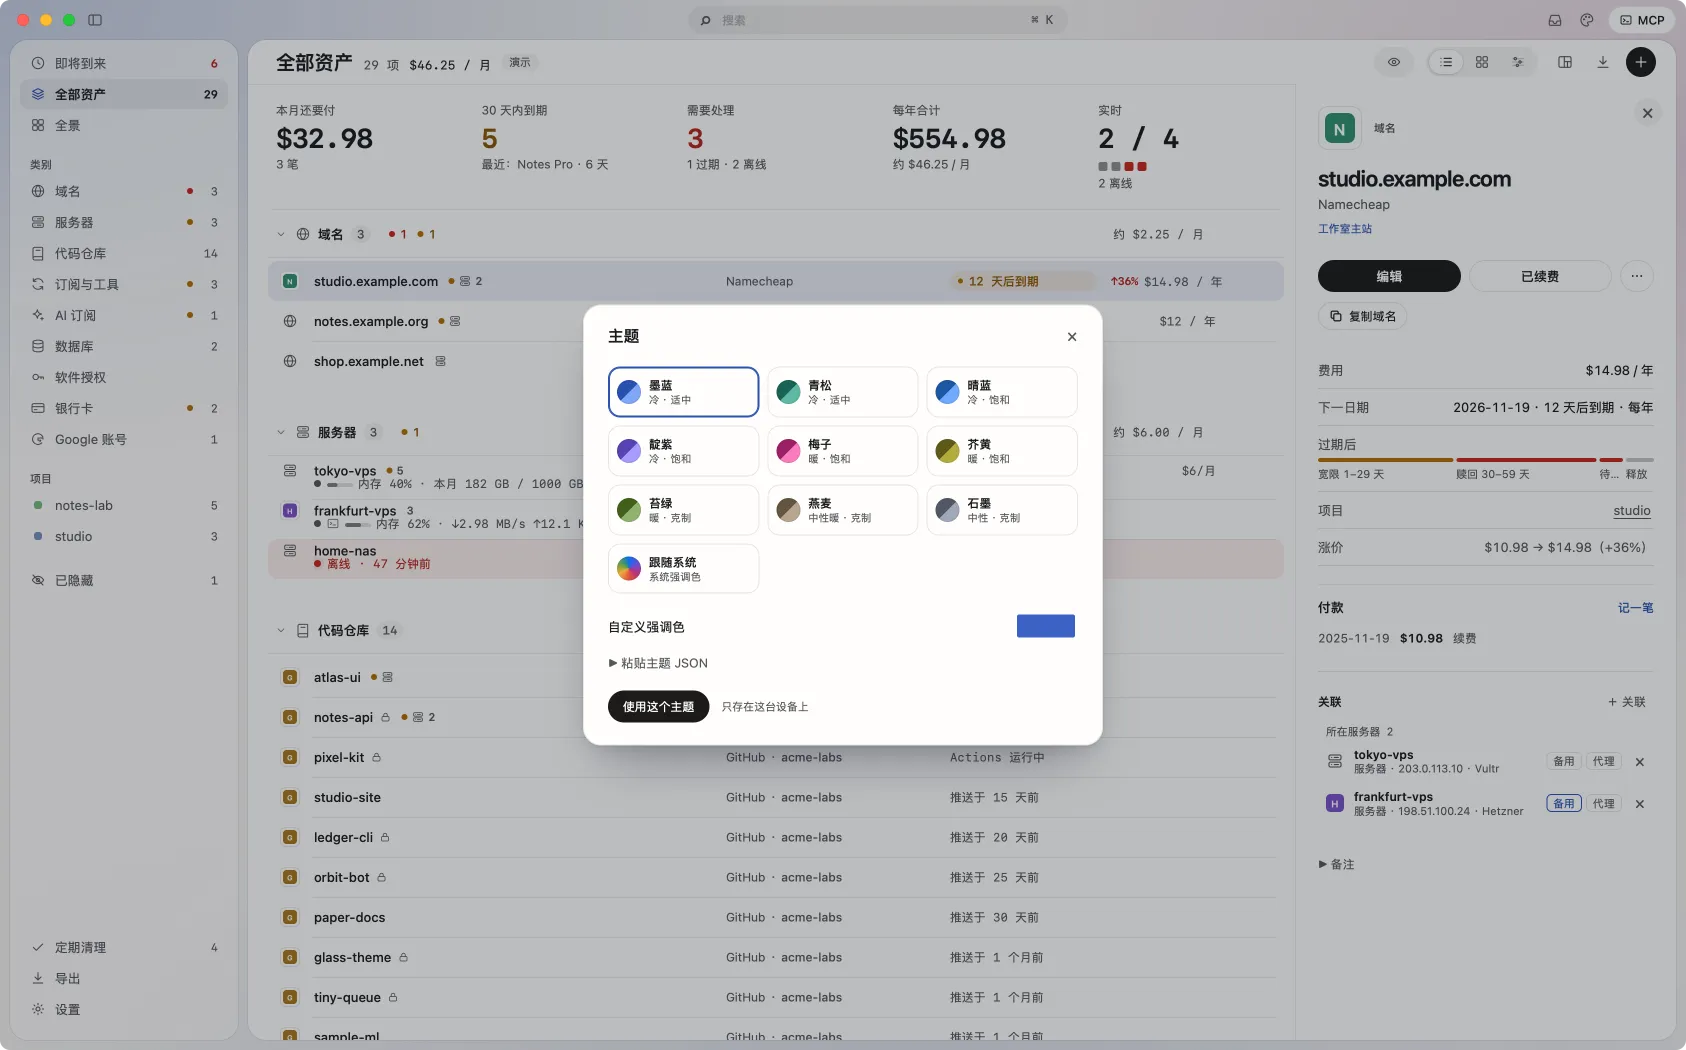
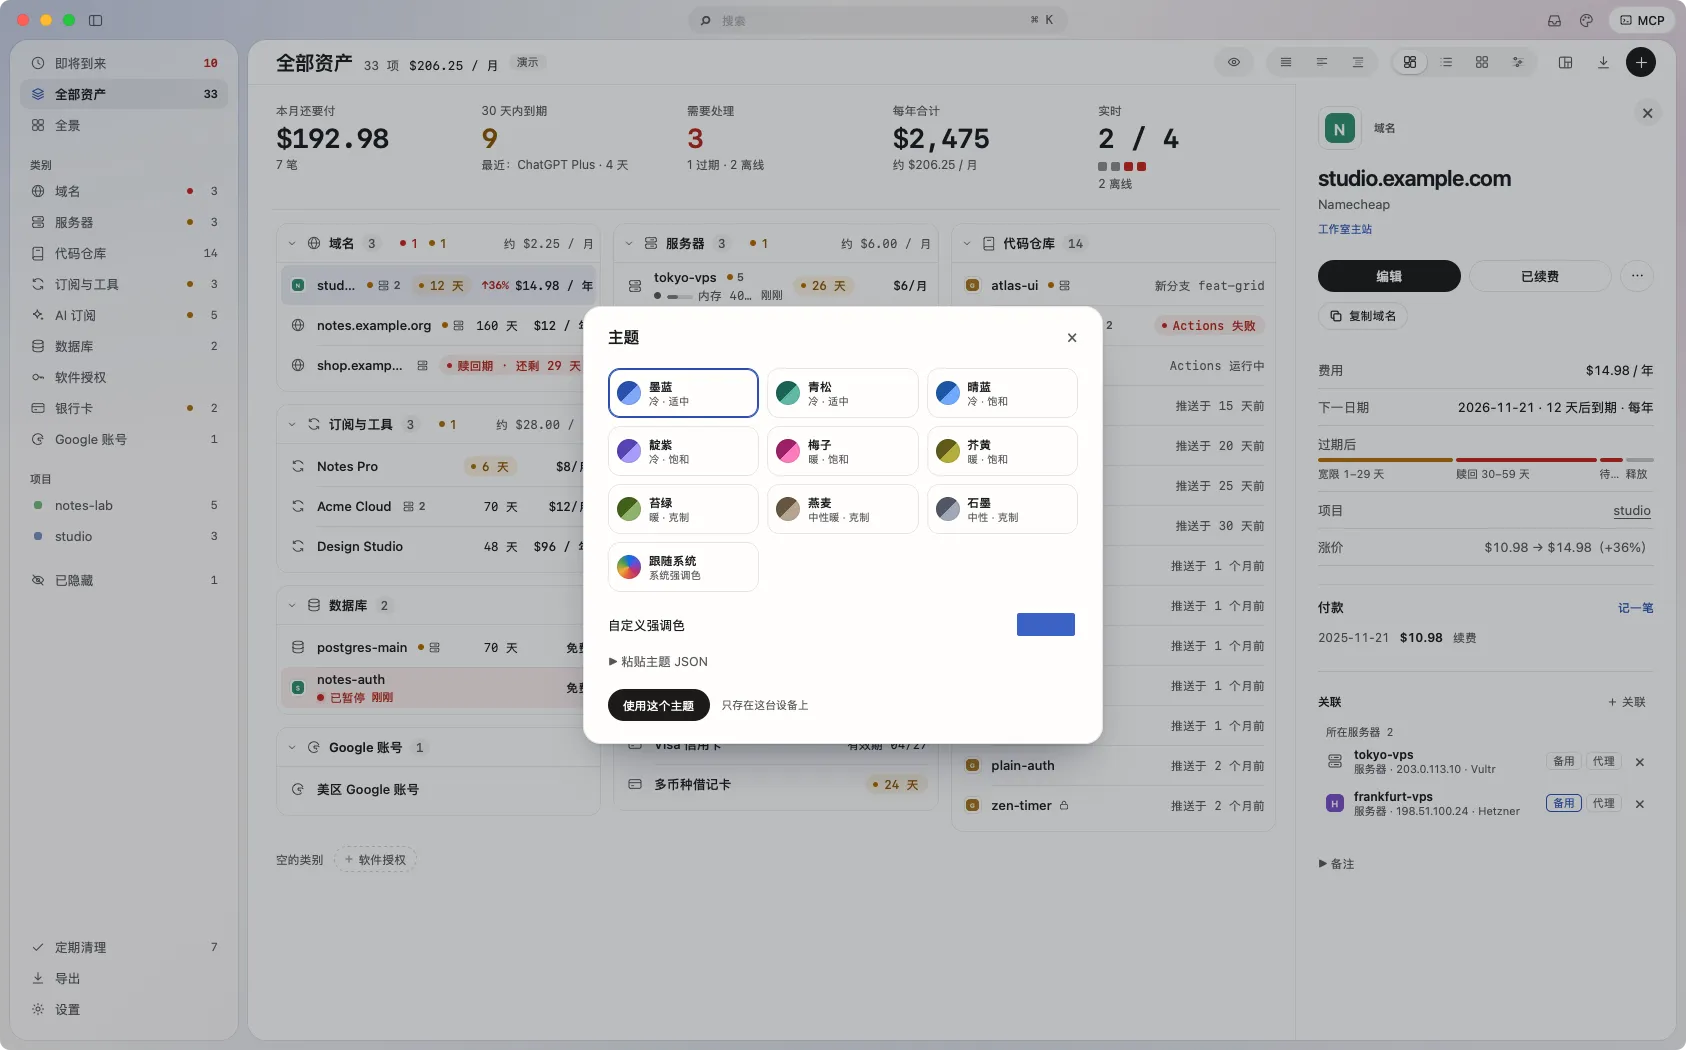
README screenshots: the site's demo shots from 44a346e (tile wall with live readings, Actions state and AI usage), and the main shot's alt text says so

diff --git a/README.en.md b/README.en.md
@@ -15,7 +15,7 @@ A macOS app that records the expiry dates, costs and relations of digital assets
 
 </div>
 
-![The All assets view: due this month, expiring within 30 days, needs attention, yearly total and live status on top, domains, servers and repositories grouped by category below, and one domain's details at the right](screenshots/board-en.webp)
+![The All assets view: due this month, expiring within 30 days, needs attention, yearly total and live status on top, a tile wall below with one panel per category (domains, servers with live readings, repositories with their Actions state, subscriptions, AI plans with their usage, databases, bank cards), and one domain's details at the right](screenshots/board-en.webp)
 
 <sub>Screenshots are from demo mode; the data is fictional.</sub>
 

diff --git a/README.md b/README.md
@@ -15,7 +15,7 @@
 
 </div>
 
-![全部资产视图：上方是本月待付、30 天内到期、需要处理、每年合计和实时状态，下面按类别分组列出域名、服务器和代码仓库，右边是一条域名记录的详情](screenshots/board-zh.webp)
+![全部资产视图：上方是本月待付、30 天内到期、需要处理、每年合计和实时状态，下面是磁贴墙，每个类别一块面板（域名、带实时读数的服务器、带 Actions 状态的代码仓库、订阅、带用量的 AI 订阅、数据库、银行卡），右边是一条域名记录的详情](screenshots/board-zh.webp)
 
 <sub>截图来自演示模式，数据是虚构的。</sub>
 
